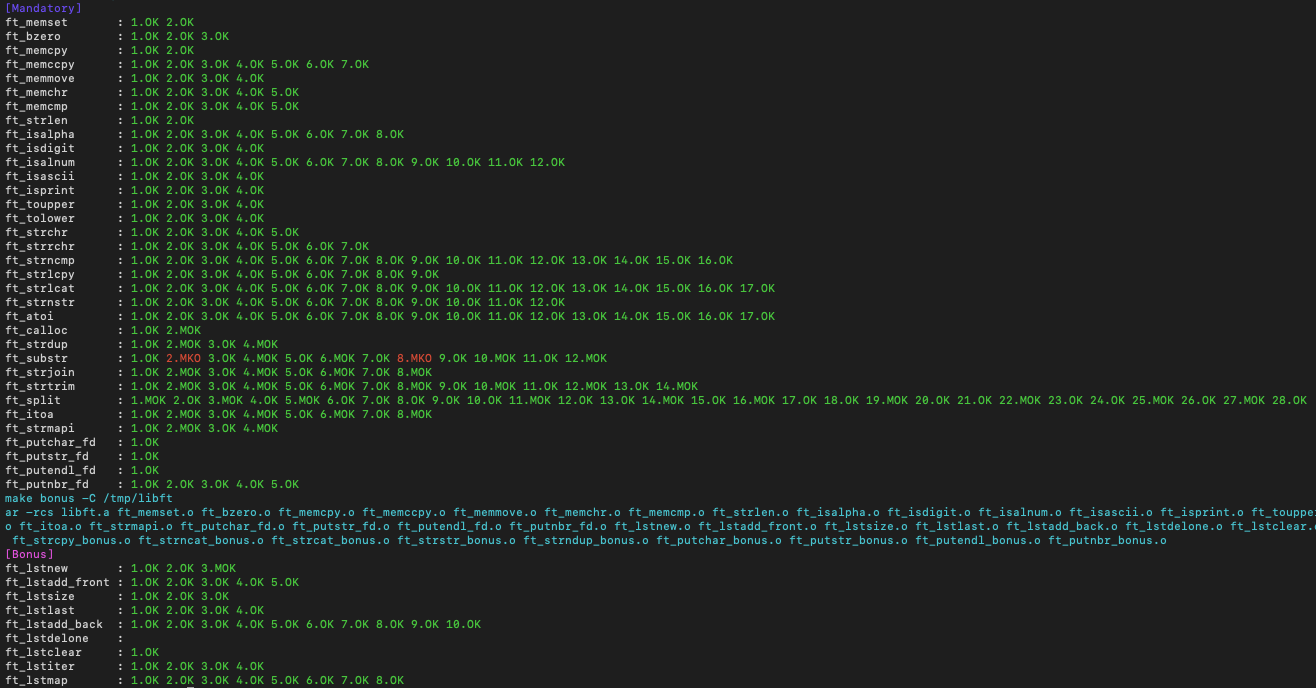
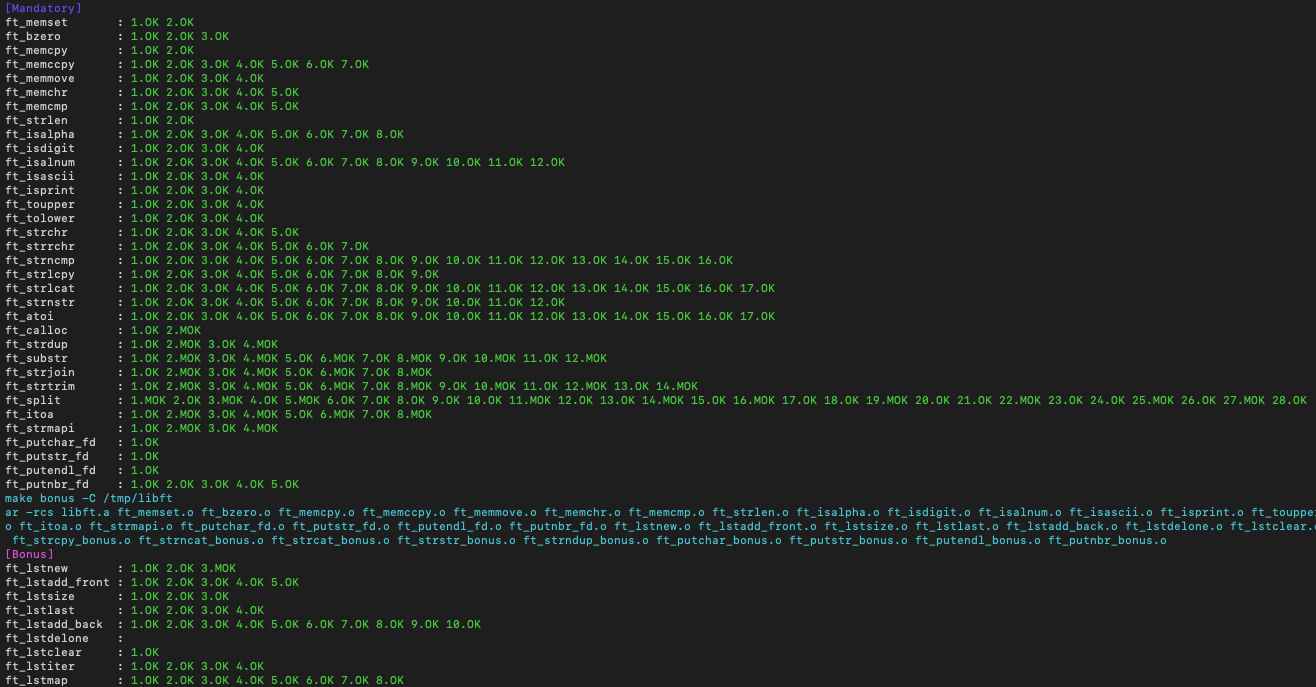
Add files via upload

Changed region(s): [[0.0, 0.2445, 1.0, 1.0], [0.0935, 0.9476, 0.3116, 1.0]]

diff --git a/ft_substr.c b/ft_substr.c
@@ -6,7 +6,7 @@
 /*   By: cmaginot <cmaginot@student.42.fr>          +#+  +:+       +#+        */
 /*                                                +#+#+#+#+#+   +#+           */
 /*   Created: 2021/04/14 23:20:24 by cmaginot          #+#    #+#             */
-/*   Updated: 2021/05/20 12:43:25 by cmaginot         ###   ########.fr       */
+/*   Updated: 2021/05/25 14:50:21 by cmaginot         ###   ########.fr       */
 /*                                                                            */
 /* ************************************************************************** */
 
@@ -15,21 +15,25 @@
 char	*ft_substr(char const *s, unsigned int start, size_t len)
 {
 	char	*str;
-	size_t	i;
+	char	*res;
+	size_t	lenstr;
 
 	if (s == 0)
 		return (0);
-	str = malloc((len + 1) * sizeof(char));
+	lenstr = ft_strlen(s);
+	if (lenstr < start)
+		str = malloc(1 * sizeof(char));
+	else if (lenstr - start < len)
+		str = malloc((lenstr - start + 1) * sizeof(char));
+	else
+		str = malloc((len + 1) * sizeof(char));
 	if (!str)
 		return (0);
-	i = -1;
-	while (++i <= len)
-	{
-		if (i + start > ft_strlen(s) || i == len)
-			str[i] = '\0';
-		else
-			str[i] = s[start + i];
-	}
-	str[i] = '\0';
-	return (str);
+	res = str;
+	while (*s != '\0' && start-- > 0)
+		s++;
+	while (*s != '\0' && len-- > 0)
+		*str++ = *s++;
+	*str = '\0';
+	return (res);
 }
